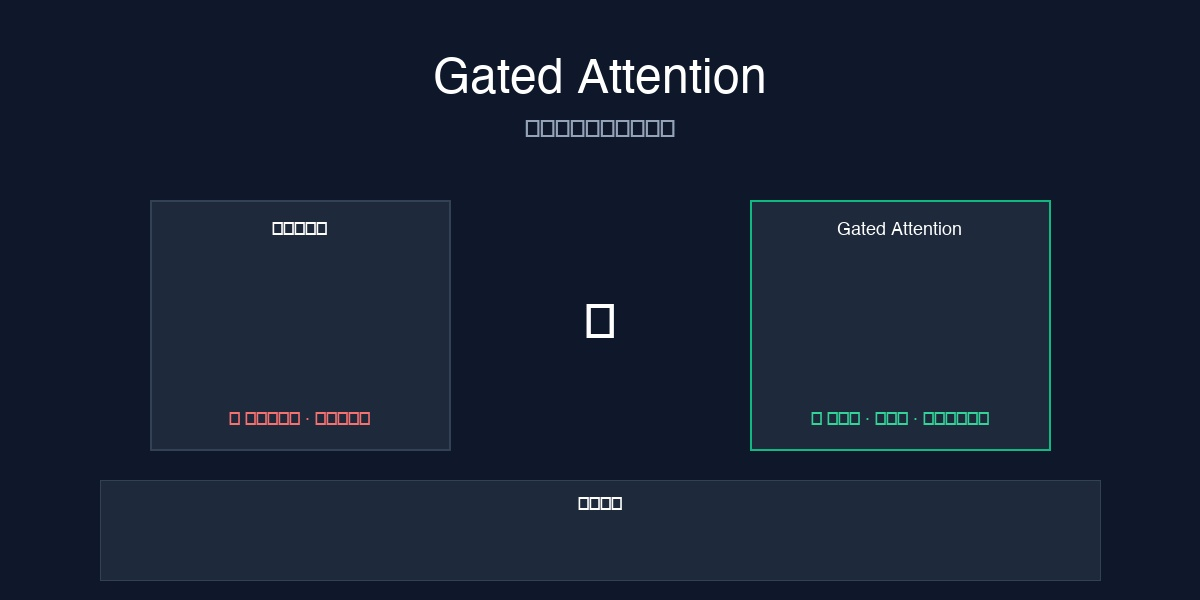
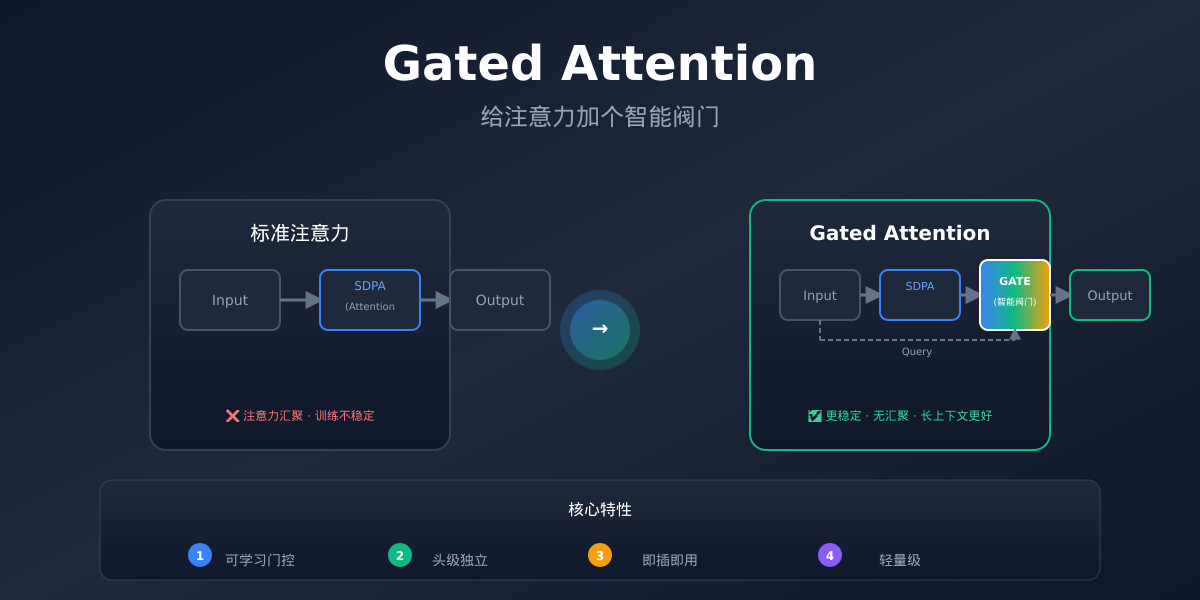
feat: convert all SVG images to JPG for Twitter card compatibility (#50)

diff --git a/_posts/2026-03-02-cybersecurity-superintelligence.md b/_posts/2026-03-02-cybersecurity-superintelligence.md
@@ -3,7 +3,7 @@ layout: post
 title: "一分钟读论文：《网络安全超智能来临：从 AI 辅助人类到人类引导 AI 的范式跃迁》"
 date: 2026-03-02 00:00:00 +0800
 categories: ai research
-image: assets/images/cybersecurity-superintelligence-evolution.svg
+image: assets/images/cybersecurity-superintelligence-evolution.jpg
 ---
 
 ## 网络安全的"三体"时代来临
@@ -12,7 +12,7 @@ image: assets/images/cybersecurity-superintelligence-evolution.svg
 
 这不是科幻小说，而是 Alias Robotics 团队在 2026 年 2 月 10 日发表的重磅论文 **《Towards Cybersecurity Superintelligence: from AI-guided humans to human-guided AI》** 中，为我们描绘的真实演进路径。
 
-![网络安全超智能演进路径](assets/images/cybersecurity-superintelligence-evolution.svg)
+![网络安全超智能演进路径](assets/images/cybersecurity-superintelligence-evolution.jpg)
 
 ## 三个里程碑：AI 如何从"军师"变成"战略家"
 
@@ -32,7 +32,7 @@ PentestGPT 是这场革命的起点。它把安全专家的毕生绝学编码成
 
 **看看这组让人惊掉下巴的数据对比**：
 
-![CAI vs 人类 速度对比](assets/images/cai-vs-human-speed.svg)
+![CAI vs 人类 速度对比](assets/images/cai-vs-human-speed.jpg)
 
 | 任务类型 | CAI 耗时 | 人类耗时 | 速度比 |
 |---------|---------|---------|--------|
@@ -55,7 +55,7 @@ PentestGPT 是这场革命的起点。它把安全专家的毕生绝学编码成
 
 但真正的突破来自 2026 年的 G-CTR（Generative Cut-the-Rope）。这一次，AI 不仅动手快，还学会了**动脑子**——用博弈论进行战略推理。
 
-![G-CTR 博弈论架构](assets/images/g-ctr-game-theory.svg)
+![G-CTR 博弈论架构](assets/images/g-ctr-game-theory.jpg)
 
 **核心创新有三个**：
 1. 🗺️ **攻击图生成**：从乱糟糟的安全日志里画出清晰的"作战地图"

diff --git a/_posts/2026-03-02-star-model-architecture-liquid-ai.md b/_posts/2026-03-02-star-model-architecture-liquid-ai.md
@@ -4,7 +4,7 @@ title: "一分钟读论文：《STAR 模型架构：Liquid AI 的模型架构自
 date: 2026-03-02 14:30:00 +0800
 categories: [AI Research, Architecture]
 tags: [AI, Machine Learning, Model Architecture, STAR, Liquid AI, Transformer]
-image: assets/images/star-architecture-overview.svg
+image: assets/images/star-architecture-overview.jpg
 excerpt: "MIT 孵化的 Liquid AI 推出了 STAR（Synthesis of Tailored Architectures），一个革命性的自动化架构搜索框架，能够自动生成和优化 AI 模型架构，在保持甚至超越 Transformer 性能的同时，减少高达 90% 的缓存大小。"
 ---
 
@@ -22,7 +22,7 @@ excerpt: "MIT 孵化的 Liquid AI 推出了 STAR（Synthesis of Tailored Archite
 
 这玩意儿能自动生成和优化 AI 模型架构，就像给建筑行业配上了自动化施工队。而且，它生成的模型性能不输 Transformer，缓存大小却能减少 **90%**！
 
-![STAR 架构概览](assets/images/star-architecture-overview.svg)
+![STAR 架构概览](assets/images/star-architecture-overview.jpg)
 
 ## 背景：Transformer 的"肥胖症"
 
@@ -64,7 +64,7 @@ STAR 不是瞎编的，它的背后有扎实的理论支撑：
 
 这种跨学科的融合，让 STAR 能探索到人类设计师根本想不到的架构设计。
 
-![STAR 进化过程](assets/images/star-evolution-process.svg)
+![STAR 进化过程](assets/images/star-evolution-process.jpg)
 
 ## 实验结果：牛逼不是吹的
 
@@ -112,7 +112,7 @@ STAR 的另一个超级棒的特性是**模块化**。
 
 这就像给你一套超级牛的乐高积木，你想搭什么都可以，而且每个积木都经过了优化！
 
-![STAR 性能对比](assets/images/star-performance-comparison.svg)
+![STAR 性能对比](assets/images/star-performance-comparison.jpg)
 
 ## 影响和意义：AI 架构的工业革命
 

diff --git a/_posts/2026-03-02-world-model-unified-framework.md b/_posts/2026-03-02-world-model-unified-framework.md
@@ -5,7 +5,7 @@ date: 2026-03-02 09:00:00 +0800
 categories: [AI Research, World Models]
 tags: [World Models, AI, Deep Learning, AGI]
 excerpt: "2026年最新研究揭示，世界模型研究正在经历从任务特定知识注入到统一框架设计的关键转变..."
-image: assets/images/world-model-unified-framework-1.svg
+image: assets/images/world-model-unified-framework-1.jpg
 ---
 
 # 世界模型统一框架：突破任务特定知识注入的局限性
@@ -41,7 +41,7 @@ image: assets/images/world-model-unified-framework-1.svg
 
 在自动驾驶、具身智能和模拟环境中，研究人员正在将世界知识整合到智能体的感知-决策循环中。然而，当前的视觉-语言-动作（VLA）系统在**长期记忆、复杂环境中的多模态感知、复杂的跨模态行为交互**方面仍然存在局限性。
 
-![任务注入 vs 统一框架](assets/images/world-model-unified-framework-2.svg)
+![任务注入 vs 统一框架](assets/images/world-model-unified-framework-2.jpg)
 
 ## 核心问题：任务注入的局限性
 
@@ -58,7 +58,7 @@ image: assets/images/world-model-unified-framework-1.svg
 
 论文提出了一个**统一的、标准化的世界模型框架**，包含五个核心组件：
 
-![统一世界模型框架](assets/images/world-model-unified-framework-1.svg)
+![统一世界模型框架](assets/images/world-model-unified-framework-1.jpg)
 
 ### 1. 交互（Interaction）
 
@@ -104,7 +104,7 @@ image: assets/images/world-model-unified-framework-1.svg
 
 论文最后提出了世界模型研究的三个关键突破方向：
 
-![世界模型的未来方向](assets/images/world-model-unified-framework-3.svg)
+![世界模型的未来方向](assets/images/world-model-unified-framework-3.jpg)
 
 ### 1. 物理基础的时空表示
 

diff --git a/_posts/2026-03-01-RWML-world-model.md b/_posts/2026-03-01-RWML-world-model.md
@@ -4,7 +4,7 @@ title:  "一分钟读论文：《RWML：让 LLM 智能体学会预测未来》"
 author: unbug
 categories: [AI]
 tags: [AI, 论文, 强化学习, 世界模型, LLM, 智能体]
-image: assets/images/2026-03-01-rwml-world-model.svg
+image: assets/images/2026-03-01-rwml-world-model.jpg
 ---
 
 layout: post
@@ -14,7 +14,7 @@ categories: [AI]
 tags: [AI, 论文, 强化学习, 世界模型, LLM, 智能体]
 ---
 
-![RWML 世界模型](assets/images/2026-03-01-rwml-world-model.svg)
+![RWML 世界模型](assets/images/2026-03-01-rwml-world-model.jpg)
 
 ## 论文概述
 

diff --git a/_posts/2026-03-01-ai-agents-lord-of-the-flies.md b/_posts/2026-03-01-ai-agents-lord-of-the-flies.md
@@ -4,7 +4,7 @@ title:  "一分钟读论文：《三个 AI 走进酒吧：聪明的 AI 也会搞
 author: unbug
 categories: [AI]
 tags: [AI 代理，多智能体，社会行为，部落主义]
-image: assets/images/ai-agents-tribalism.svg
+image: assets/images/ai-agents-tribalism.jpg
 ---
 
 layout: post
@@ -14,7 +14,7 @@ categories: [AI]
 tags: [AI 代理，多智能体，社会行为，部落主义]
 ---
 
-![三个 AI 走进酒吧](assets/images/ai-agents-tribalism.svg)
+![三个 AI 走进酒吧](assets/images/ai-agents-tribalism.jpg)
 
 ## 开场：三个 AI 的酒吧奇遇
 